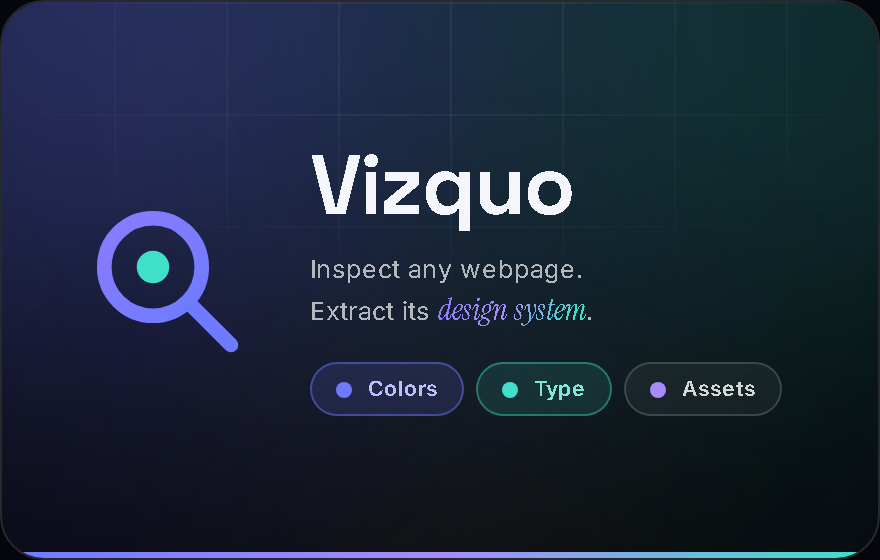
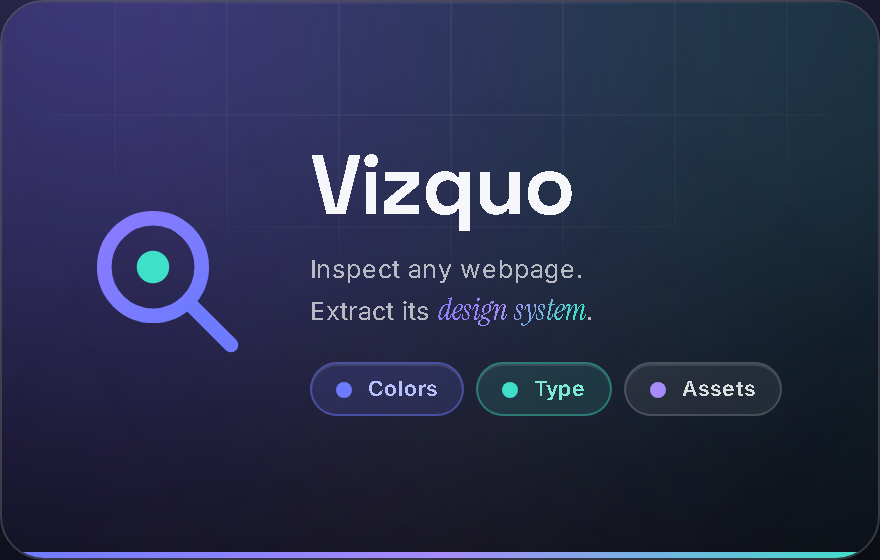
refresh promo tiles in the liquid-glass v4 language (dark glass, no light/dark variants)
The tiles predated the glass redesign: old #05060b flat chips. Now they use
the same v4 glass theme as the landing — dark base #08090e, ambient radial
fields (violet/teal/indigo) + top-left beam, edge-lit glass chips, translucent
panel mock in the OG card, v4 accent values. Single dark theme by design: the
landing has no prefers-color-scheme handling, so there is no light/dark mode —
just glassmorphism. Regenerated promo-440x280, marquee-1400x560, og-1200x630
and pixel-verified (dark base + violet field + teal field).

Generated with Codebuff 🤖

diff --git a/tomorrow.md b/tomorrow.md
@@ -392,6 +392,8 @@ the worker attempt being blocked, which now routes to the fallback instead of ha
 
 **Verification:** `node scripts/check-landing-browsers.mjs` → **all 3 engines pass** (hero, counters, demo rows, download overlay + Escape, burger, back-top, reduced-motion, zero console errors). Computed-style glass checks all pass (materials, blurs, edge light, fixed ambient, coordinate readout). Screenshots for eyeballing: OS temp dir `vizquo-landing/` (hero + features). Lint: zero NEW warnings vs baseline (the 20 `noImportantStyles`/`noDescendingSpecificity` warnings in this file are pre-existing).
 
+**Promo refresh (same glass theme):** `scripts/generate-promo-tile.mjs` now renders the v4 glass language — dark base `#08090e`, ambient radial fields (violet/teal/indigo) + top-left beam, edge-lit glass chips (inset highlight), translucent panel mock in the OG card, v4 accent values. Single dark theme by design — there is **no light/dark mode** anywhere in the landing/promo (the landing has no `prefers-color-scheme` handling; the only theme meta is the browser-chrome `theme-color`). Regenerate with `node scripts/generate-promo-tile.mjs` (writes `deploy-kit/promo/`; the OG card is the landing's `og:image`).
+
 ## 14. Files changed today (remaining-issues sweep — storage GC + timeline perf + lint) — in case you need to review or revert
 
 | File | What |
